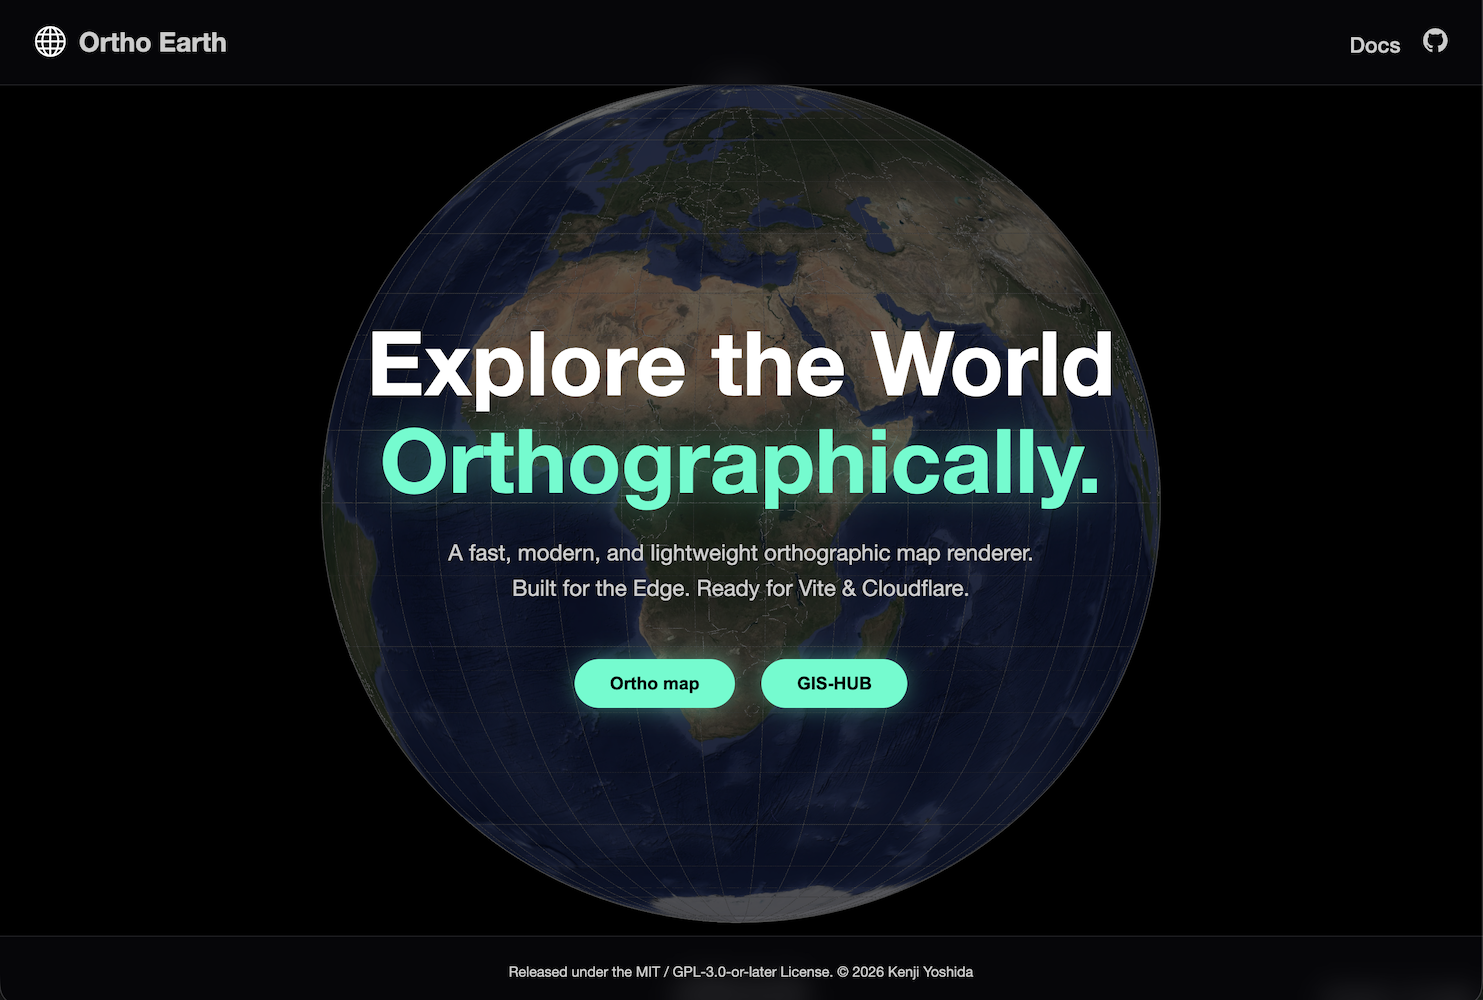
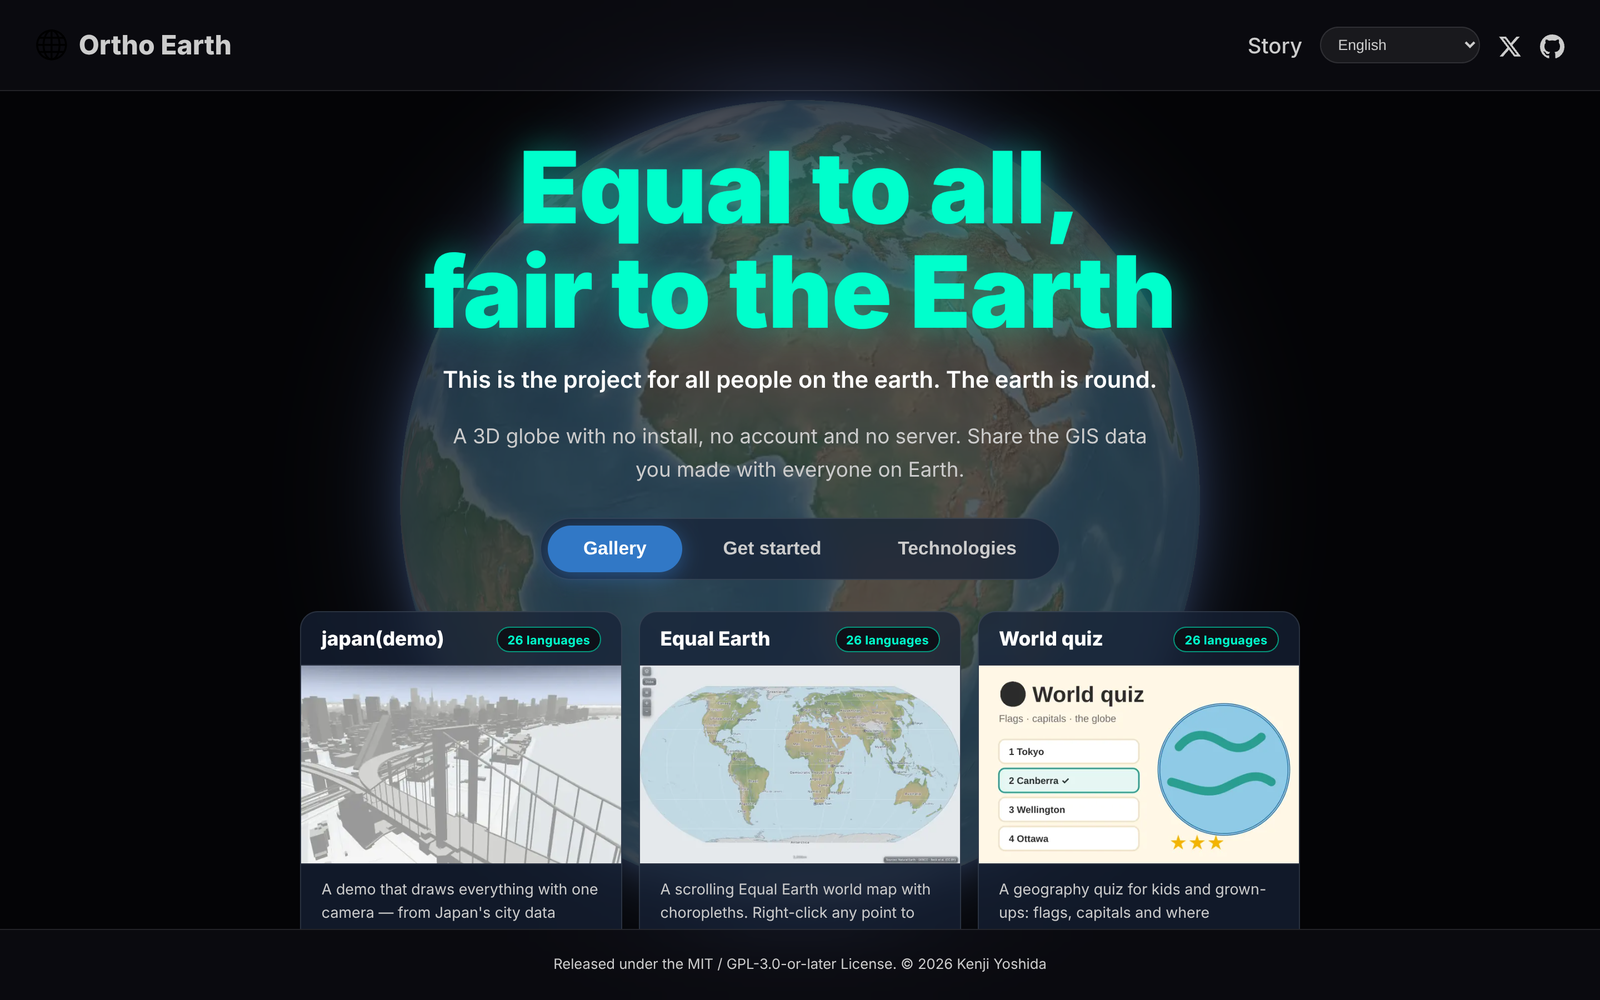
README: 冒頭の絵を今のトップ頁（www.ortho-earth.com・英語）の写しに差し替え
Claude-Session: https://claude.ai/code/session_017sFXM3DXTAP7XrubQ2jKkw

diff --git a/README.md b/README.md
@@ -2,7 +2,7 @@
 
 A serverless WebGPU/GL2 orthographic map engine and GIS workstation, built from scratch — zero runtime dependencies, no tile servers. Runs entirely in the browser.
 
-<img src="assets/hero.png" width="600" alt="Ortho Earth hero">
+<img src="assets/hero.png" width="720" alt="The top page of www.ortho-earth.com: the globe behind &quot;Equal to all, fair to the Earth&quot; and the demo gallery">
 
 **top page:** [www.ortho-earth.com](https://www.ortho-earth.com) · **ortho-japan (flagship 3D map):** [/japan/](https://www.ortho-earth.com/japan/) · **world globe:** [/globe/](https://www.ortho-earth.com/globe/) · **GIS-HUB (apps):** [/gishub/](https://www.ortho-earth.com/gishub/) · **MapLibre examples:** [/maplibre/](https://www.ortho-earth.com/maplibre/) · **technical documents:** [/#technologies](https://www.ortho-earth.com/#technologies)
 
